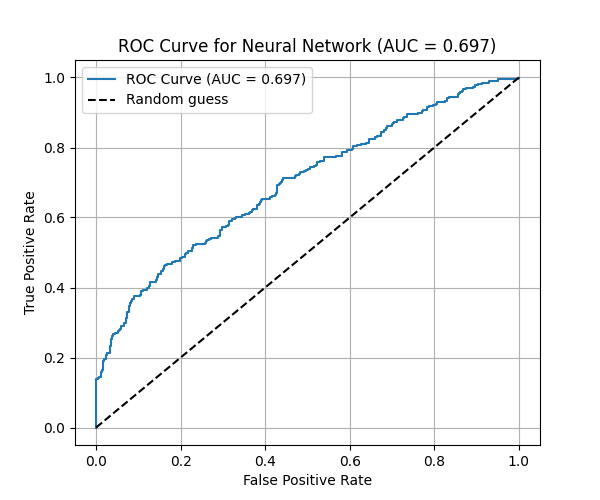
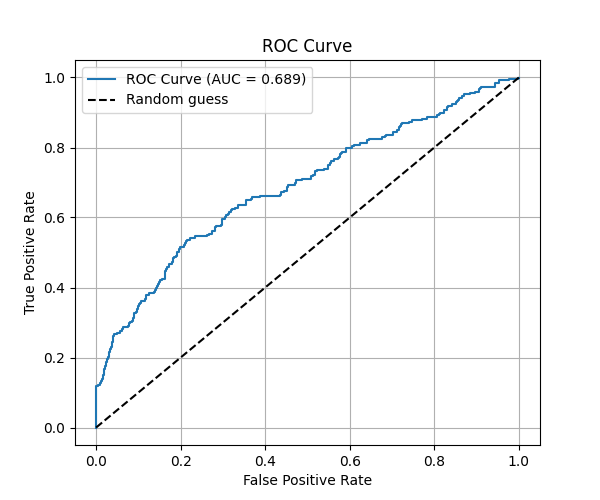
Add best practices to NN

diff --git a/Freight_Delay/training.py b/Freight_Delay/training.py
@@ -3,8 +3,11 @@ import numpy as np
 import torch
 import torch.nn as nn
 import torch.nn.functional as F
+from torch.utils.data import TensorDataset, DataLoader
 from sklearn.model_selection import train_test_split
 from sklearn.metrics import accuracy_score
+from sklearn.preprocessing import StandardScaler
+import torch.optim.lr_scheduler as lr_scheduler
 import itertools
 from sklearn.ensemble import RandomForestClassifier
 from sklearn.metrics import roc_curve, roc_auc_score
@@ -35,25 +38,56 @@ print(y.columns)
 method_to_use = "PytorchBinaryClassifier"
 
 
-
+# Best accuracy so far: 0.769
+#                  AUC: 0.699
 if method_to_use == "PytorchBinaryClassifier":
+    
+    device = torch.device("cuda" if torch.cuda.is_available() else "cpu")
+    scaler = StandardScaler()
+    batch_size = 64
 
     # 50-25-25 train-validation-test split
     x_train, x_test, y_train, y_test             = train_test_split(x, y, test_size=0.25, random_state=42)
     x_train, x_validation, y_train, y_validation = train_test_split(x_train, y_train, test_size=0.33, random_state=42)
 
+    x_train         = scaler.fit_transform(x_train)
+    x_validation    = scaler.transform(x_validation)
+    x_test          = scaler.transform(x_test)
+
+    ########## DATASET AND DATALOADER ##########
+    train_dataset = TensorDataset(
+        torch.tensor(x_train, dtype=torch.float32),
+        torch.tensor(y_train.values, dtype=torch.float32)
+        # torch.tensor(np.asarray(y_train), dtype=torch.float32).to(device)
+    )
+
+    validation_dataset = TensorDataset(
+        torch.tensor(x_validation, dtype=torch.float32),
+        torch.tensor(y_validation.values, dtype=torch.float32)
+    )
+
+    test_dataset = TensorDataset(
+        torch.tensor(x_test, dtype=torch.float32),
+        torch.tensor(y_test.values, dtype=torch.float32)
+    )
+
+    train_dataloader = DataLoader(train_dataset, batch_size=batch_size, shuffle=True)
+    validation_dataloader = DataLoader(validation_dataset, batch_size=batch_size, shuffle=False)
+    test_dataloader = DataLoader(test_dataset, batch_size=batch_size, shuffle=False)
+
+    ########## MODEL, LOSS FUNCTION, OPTIMIZER, SCHEDULER, EARLY STOPPING ##########
+
     input_dim       = len(x.columns)  # number of features
-    model           = BinaryClassifier(input_dim)
-    criterion       = nn.BCELoss()  # Binary Cross Entropy
+    model           = BinaryClassifier(input_dim).to(device)
+    criterion       = nn.BCEWithLogitsLoss()  # Binary Cross Entropy
     optimizer       = torch.optim.Adam(model.parameters(), lr=1e-3)
+    scheduler       = lr_scheduler.StepLR(optimizer, step_size=100, gamma=0.5)
     early_stopping  = EarlyStopping(patience=10, path="best_model.pt")
 
-
-    # Example training data
-    x_train      = torch.tensor(x_train.values, dtype=torch.float32)
-    x_validation = torch.tensor(x_validation.values, dtype=torch.float32)
-    y_train      = torch.tensor(y_train.values, dtype=torch.float32)
-    y_validation = torch.tensor(y_validation.values, dtype=torch.float32)
+    # Storage for plotting
+    train_losses = []
+    val_losses = []
+    test_losses = []
 
     n_epochs = 250
 
@@ -62,63 +96,134 @@ if method_to_use == "PytorchBinaryClassifier":
 
         ########## TRAINING ##########
         model.train()
+        running_train_loss = 0.0
 
-        outputs = model(x_train)
-        loss    = criterion(outputs, y_train)
-        optimizer.zero_grad()
+        for xb, yb in train_dataloader:
+            xb = xb.to(device)
+            yb = yb.to(device)
+            outputs = model(xb)
+            loss    = criterion(outputs, yb)
+            optimizer.zero_grad()
 
-        loss.backward()
-        optimizer.step()
+            loss.backward()
+            optimizer.step()
 
+            running_train_loss += loss.item() 
+
+        epoch_train_loss = running_train_loss / len(train_dataloader.dataset)
+        train_losses.append(epoch_train_loss)
         ########## VALIDATION ##########
         model.eval()
-        val_loss = 0.0
+        running_val_loss = 0.0
+        correct = 0
+        total = 0
+
         with torch.no_grad():
-            val_outputs = model(x_validation)
-            val_loss    = criterion(val_outputs, y_validation)
+            for xb, yb in validation_dataloader:
+                xb = xb.to(device)
+                yb = yb.to(device)
+                val_outputs = model(xb)
+                val_loss    = criterion(val_outputs, yb)
 
-        if (epoch + 1) % 10 == 0:
-            preds = (outputs > 0.5).float()
-            val_preds = (val_outputs > 0.5).float()
-            acc = (preds == y_train).float().mean()
-            val_acc = (val_preds == y_validation).float().mean()
-            print(f"Epoch [{epoch + 1}/{n_epochs}]\n\tTrain_loss: {loss.item():.4f},\tAccuracy: {acc.item():.4f}\n\tVal_loss: {val_loss.item():.4f}\tVal_Accuracy: {val_acc.item():.4f}\n##########")
+                running_val_loss += val_loss.item() 
+                preds = (torch.sigmoid(val_outputs) > 0.5).float()
+                correct += (preds == yb).sum().item()
+                total += yb.size(0)
 
+            epoch_val_loss = running_val_loss / len(validation_dataloader.dataset)
+            val_losses.append(epoch_val_loss)
+
+            val_acc = correct / total
+
+            if (epoch + 1) % 10 == 0:
+                print(  f"[{epoch+1}/{n_epochs}]  "
+                        f"Train loss={epoch_train_loss:.4f}   "
+                        f"Val loss={epoch_val_loss:.4f}   "
+                        f"Val acc={val_acc:.4f}")
+        
         ########## EARLY STOPPING CHECK ##########
-        early_stopping(val_loss, model)
+        early_stopping(epoch_val_loss, model)
         if early_stopping.early_stop:
             print(f"Early stopping triggered")
-            print(f'Epoch [{epoch}/{n_epochs}], train_loss: {loss.item():.4f}\tval_loss={val_loss:.4f}')
+            print(f'Epoch [{epoch}/{n_epochs}], train_loss: {epoch_train_loss:.4f}\tval_loss={epoch_val_loss:.4f}')
             break
 
+        scheduler.step()
+
+
     # Evaluate on test set
+    model.load_state_dict(torch.load("best_model.pt"))
     model.eval()
+
+    running_test_loss = 0.0
+    correct = 0
+    total = 0
+    all_outputs = []
+    all_targets = []
+
     with torch.no_grad():
-        x_test = torch.tensor(x_test.values, dtype=torch.float32)
-        y_test = torch.tensor(y_test.values, dtype=torch.float32)
-        outputs = model(x_test)
-        preds = (outputs > 0.5).float()
-        acc = (preds == y_test).float().mean()
-        print(f"Test Accuracy: {acc.item()*100:.2f}%")
+
+        for xb, yb in test_dataloader:
+            xb = xb.to(device)
+            yb = yb.to(device)
+            outputs = model(xb)
+            test_loss    = criterion(outputs, yb)
+
+            running_test_loss += test_loss.item() 
+            preds = (torch.sigmoid(outputs) > 0.5).float()
+            correct += (preds == yb).sum().item()
+            total += yb.size(0)
+
+            all_outputs.append(torch.sigmoid(outputs).cpu().numpy())
+            all_targets.append(yb.cpu().numpy())
+
+    test_loss = running_test_loss / len(test_dataloader.dataset)
+    test_acc = correct / total
+
+    print(f"Test Accuracy: {test_acc*100:.2f}%\tTest Loss: {test_loss:.4f}")
 
     # Compute ROC curve and AUC
-    y_prob = outputs.numpy()
-    fpr, tpr, _ = roc_curve(y_test.numpy(), y_prob)
-    auc_score = roc_auc_score(y_test.numpy(), y_prob)
+    all_logits = np.vstack(all_outputs)
+    all_targets = np.vstack(all_targets)
+
+
+    # AUC
+    fpr, tpr, _ = roc_curve(all_targets, all_logits)
+    auc_score = roc_auc_score(all_targets, all_logits)
 
     print(f"AUC: {auc_score:.4f}")
 
-    # Plot ROC curve
+    # -----------------------------------------------------------
+    # PLOT ROC CURVE
+    # -----------------------------------------------------------
     plt.figure(figsize=(6, 5))
     plt.plot(fpr, tpr, label=f"ROC Curve (AUC = {auc_score:.3f})")
     plt.plot([0, 1], [0, 1], 'k--', label="Random guess")
     plt.xlabel("False Positive Rate")
     plt.ylabel("True Positive Rate")
-    plt.title(f"ROC Curve for Neural Network (AUC = {auc_score:.3f})")
+    plt.title("ROC Curve")
     plt.legend()
     plt.grid(True)
     plt.savefig("roc_curve_nn.png")
 
+    # -----------------------------------------------------------
+    # PLOT TRAIN / VAL / TEST LOSSES
+    # -----------------------------------------------------------
+    plt.figure(figsize=(7, 5))
+    epochs_range = range(1, len(train_losses) + 1)
+
+    plt.plot(epochs_range, train_losses, label="Train Loss")
+    plt.plot(epochs_range, val_losses, label="Validation Loss")
+
+    # The test loss is only one number — plot as horizontal line
+    plt.axhline(test_loss, color='red', linestyle='--', label="Test Loss")
+
+    plt.xlabel("Epoch")
+    plt.ylabel("Loss")
+    plt.title("Training, Validation, and Test Loss")
+    plt.legend()
+    plt.grid(True)
+    plt.savefig("loss_curves.png")
 
 # Best accuracy so far: 0.786 with n_estimators=300, max_depth=None, max_features=0.1, max_samples=0.8
 #                  AUC: 0.783

diff --git a/Freight_Delay/models.py b/Freight_Delay/models.py
@@ -27,7 +27,8 @@ class BinaryClassifier(nn.Module):
         x = self.dropout(x)
         x = F.relu(self.bn2(self.fc2(x)))
         x = self.dropout(x)
-        x = torch.sigmoid(self.fc3(x))  # binary output between 0–1
+        x = self.fc3(x)
+        # x = torch.sigmoid(self.fc3(x))  # binary output between 0–1
         return x
 
 
